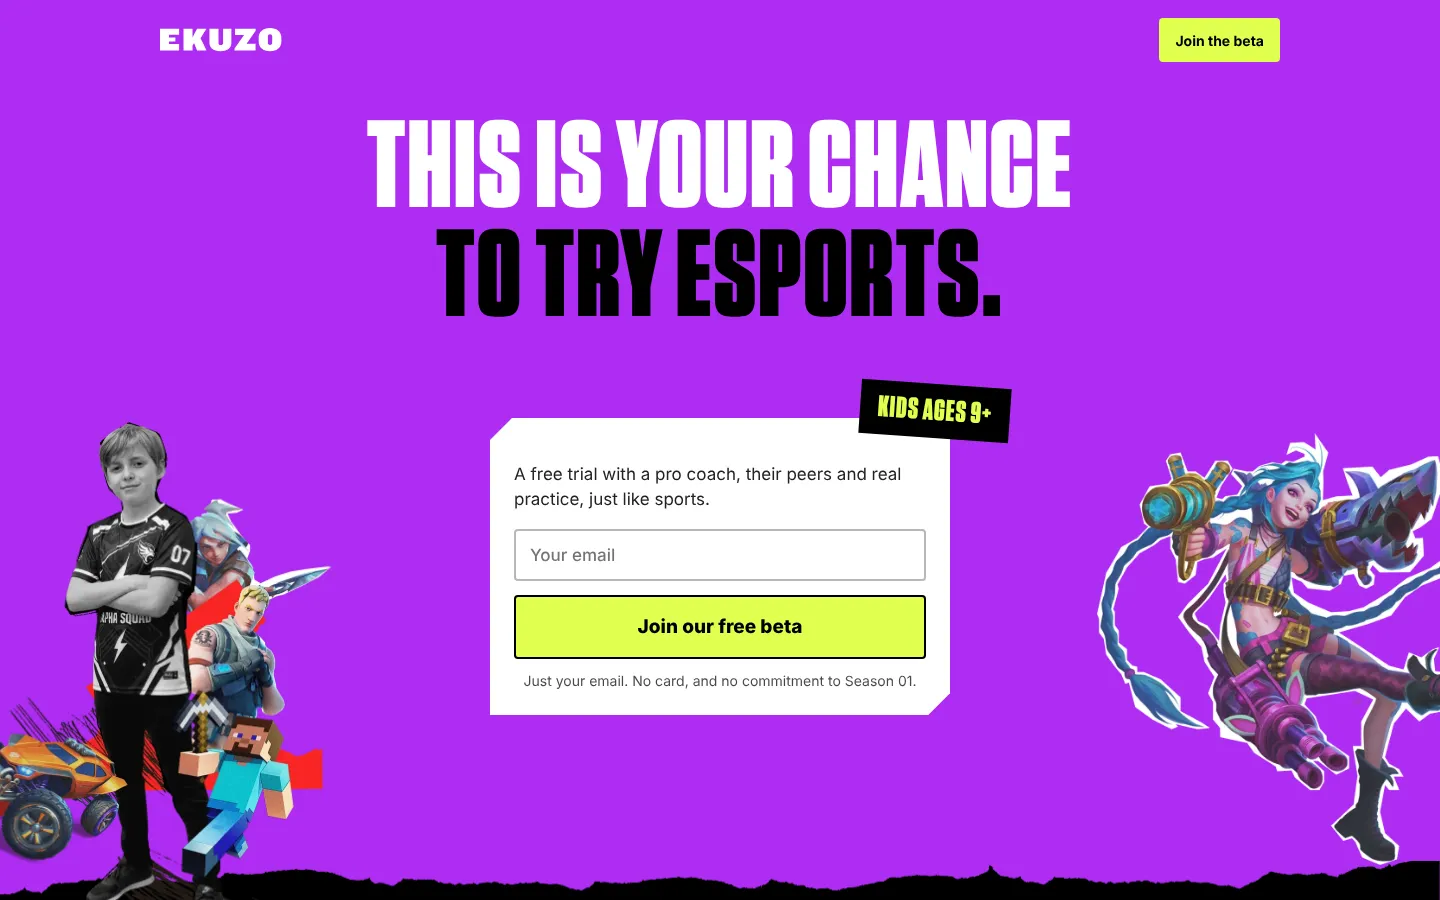
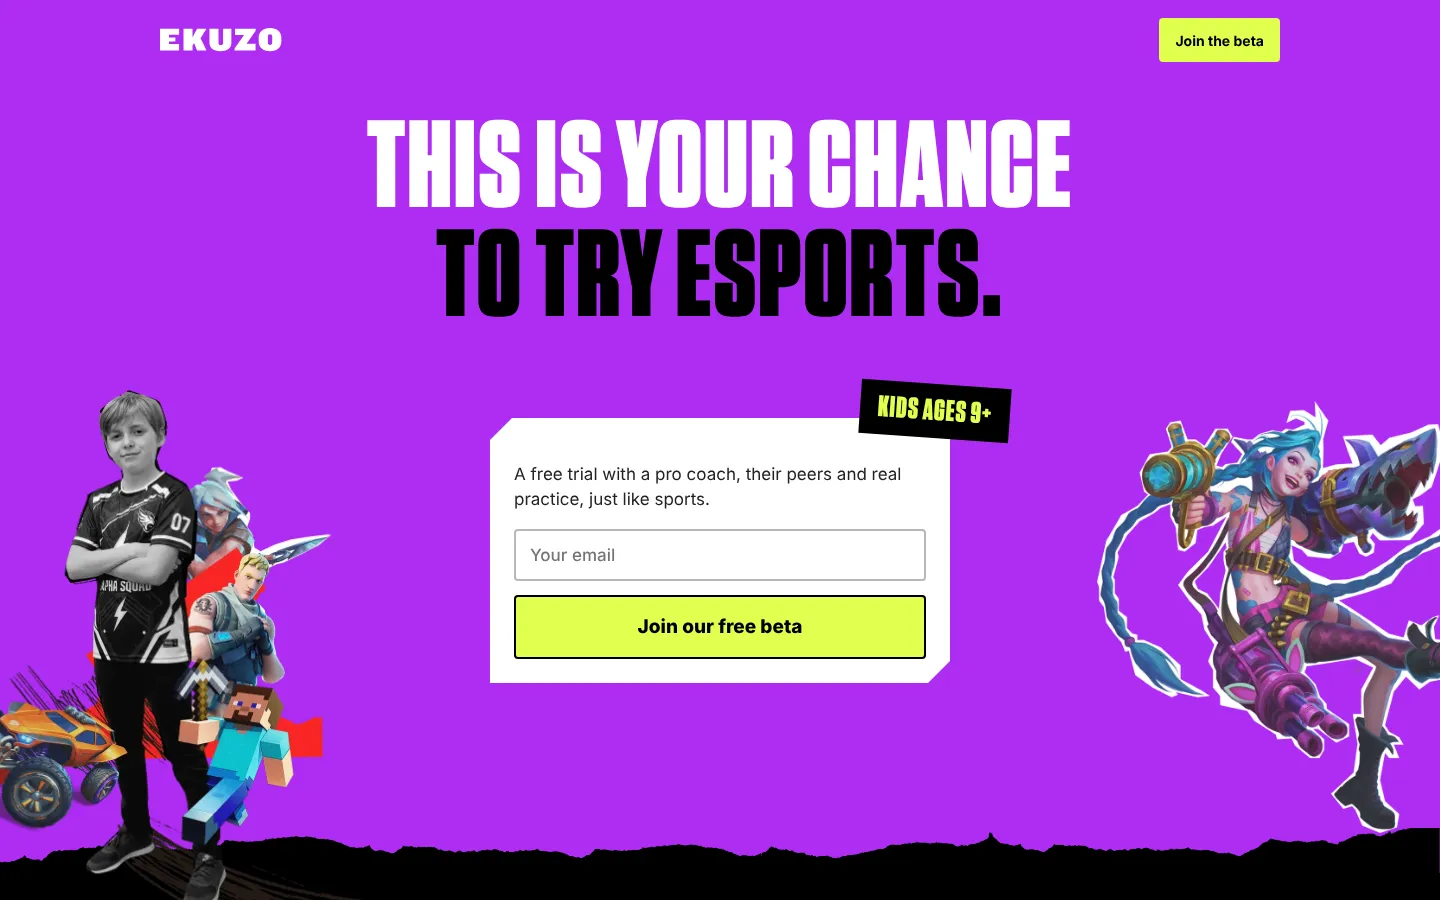
Season 01 BETA page: parent quotes in their own band, hero fine print removed
Claude-Session: https://claude.ai/code/session_01543UG8e9JwTD5Qg5aKwmc9

Changed region(s): [[0.0, 0.4356, 1.0, 1.0], [0.3438, 0.7467, 0.6875, 0.8089]]

diff --git a/app/season1/beta/beta.html b/app/season1/beta/beta.html
@@ -163,12 +163,12 @@ a{color:inherit}
 @media (prefers-reduced-motion:reduce){html{scroll-behavior:auto}.stick,.faq summary:after{transition:none}}
 
 /* parent quotes (verbatim from the testimonial videos in public/testimonial-videos) */
-.said{list-style:none;margin:56px calc(var(--gut)*-1) 0;padding:0 var(--gut);display:flex;gap:16px;overflow-x:auto;scroll-snap-type:x mandatory;scroll-padding-inline:var(--gut);scrollbar-width:none}
+.said{list-style:none;margin:36px calc(var(--gut)*-1) 0;padding:0 var(--gut);display:flex;gap:16px;overflow-x:auto;scroll-snap-type:x mandatory;scroll-padding-inline:var(--gut);scrollbar-width:none}
 .said::-webkit-scrollbar{display:none}
-.said li{flex:0 0 84%;scroll-snap-align:start;border-top:2px solid #fff;padding-top:18px}
-.said blockquote{margin:0;font:600 20px/1.4 var(--body);color:#fff;text-wrap:pretty}
-.said cite{display:block;margin-top:14px;font:700 15px/1.3 var(--body);font-style:normal;color:var(--lime)}
-.said cite span{color:rgba(255,255,255,.7);font-weight:500}
+.said li{flex:0 0 84%;scroll-snap-align:start;border-top:2px solid var(--black);padding-top:18px}
+.said blockquote{margin:0;font:600 20px/1.4 var(--body);color:var(--black);text-wrap:pretty}
+.said cite{display:block;margin-top:14px;font:700 15px/1.3 var(--body);font-style:normal;color:var(--blue)}
+.said cite span{color:rgba(0,0,0,.65);font-weight:500}
 /* no toxic lobbies: carried from the Join page (app/season1/join/b) */
 .lobby .rule{font-weight:800;font-size:clamp(20px,2.2vw,26px);line-height:1.25;margin:36px 0 0;color:#fff}
 .lobby ul{list-style:none;margin:20px 0 0;padding:0;display:grid;gap:14px}
@@ -210,7 +210,6 @@ a{color:inherit}
 <input class="hp" type="text" name="ekz_hp" tabindex="-1" autocomplete="off" aria-hidden="true" data-1p-ignore data-lpignore="true" data-form-type="other">
 <button class="btn" type="submit">Join our free beta</button>
 <p class="err" role="alert" hidden></p>
-<p class="fine">Just your email. No card, and no commitment to Season&nbsp;01.</p>
 </form>
 <div class="card done" id="done" role="status" tabindex="-1" hidden>
 <h2>Awesome.</h2>
@@ -231,13 +230,17 @@ a{color:inherit}
 <li><b>Tell us about your player</b><span>A few quick questions: the games they play and the times that work for your family.</span></li>
 <li><b>Two weeks, four sessions</b><span>They meet their coach and play as a team, from home.</span></li>
 </ol>
+</div></section>
+
+<section class="band"><div class="paper" style="--paper:url('/images/new%20torn%20paper/torn-paper-white-top-1@2x.png')" aria-hidden="true"></div>
+<div class="wrap pad">
+<h2 class="d h2">What parents <em class="c-blue">say</em></h2>
 <ul class="said" aria-label="What EKUZO parents say" tabindex="0">
 <li><blockquote>&ldquo;The team atmosphere, and all the safety and expectations, and just joy that EKUZO&rsquo;s added to her life has been a godsend.&rdquo;</blockquote><cite>Brad <span>Parent</span></cite></li>
 <li><blockquote>&ldquo;He has less desire to spend time scrolling YouTube when he can be practicing for his team.&rdquo;</blockquote><cite>Becky <span>Parent</span></cite></li>
 <li><blockquote>&ldquo;It&rsquo;s more like a life skill for them and less on the game skills.&rdquo;</blockquote><cite>Rajitha <span>Parent</span></cite></li>
 </ul>
 </div></section>
-
 <section class="band offwhite"><div class="paper" style="--paper:url('/images/new%20torn%20paper/torn-paper-grey-top-1@2x.png')" aria-hidden="true"></div>
 <div class="wrap pad">
 <h2 class="d h2">Who <em class="c-blue">coaches</em></h2>

diff --git a/WORKLOG.md b/WORKLOG.md
@@ -4,6 +4,10 @@
 
 **Format:** Most recent entry at the top. Include your name, date, and what changed.
 
+## Aaron's Claude, 2026-11-12: /season1/beta, quotes in their own band, no fine print (dev)
+
+- `app/season1/beta/beta.html` (Aaron): the parent quotes moved out of "How the beta works" into their own white band, "What parents say", between it and "Who coaches". The fine print under the hero button ("Just your email. No card...") is removed. Checked at 390 and 1440.
+
 ## Aaron's Claude, 2026-11-11: /season1/beta gains parent quotes and "No toxic lobbies" (dev)
 
 - `app/season1/beta/beta.html`: three short parent pull quotes under "How the beta works" (Brad, Becky, Rajitha). Each is a verbatim excerpt from the transcripts in `public/testimonial-videos/*.txt`, credited "Name, Parent" as `TestimonialsCarousel` does; Brad's drops a spoken restart ("the team, the team atmosphere"). On phones the row swipes sideways; on desktop it is three across.
